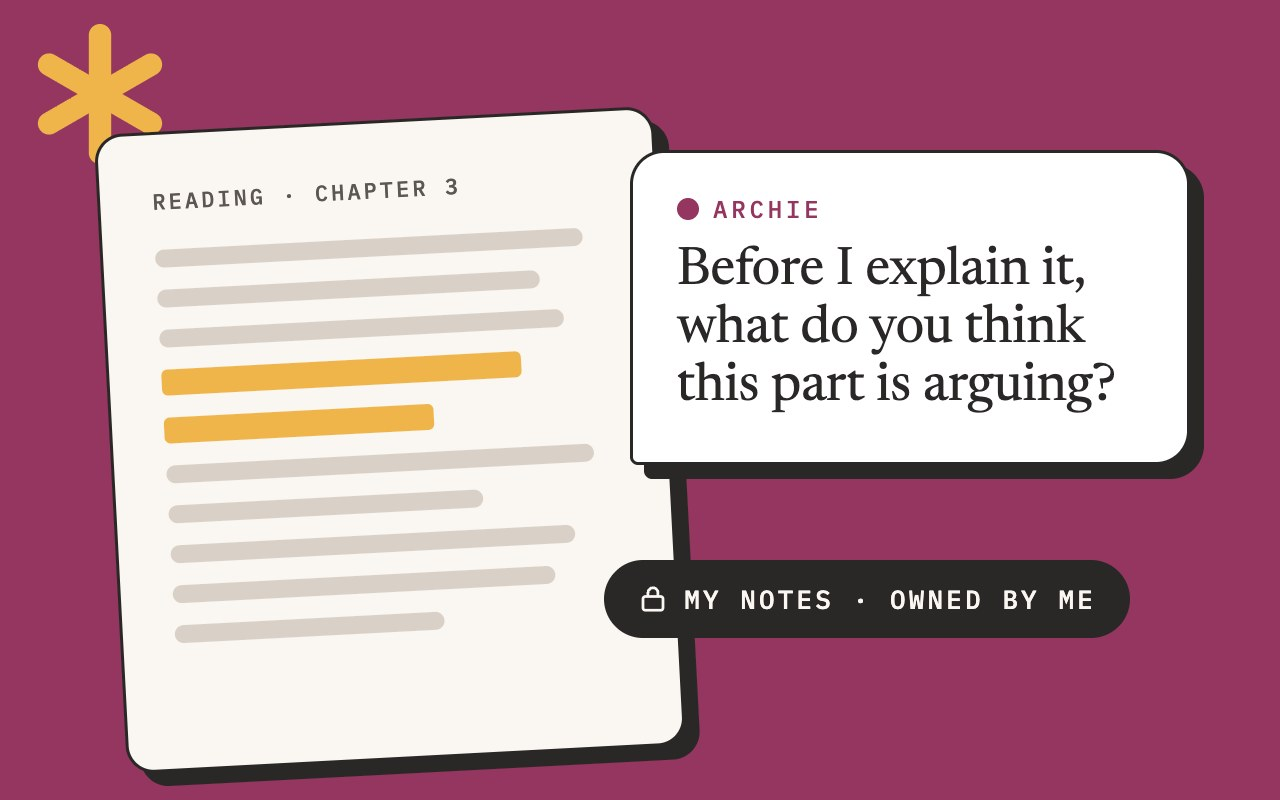
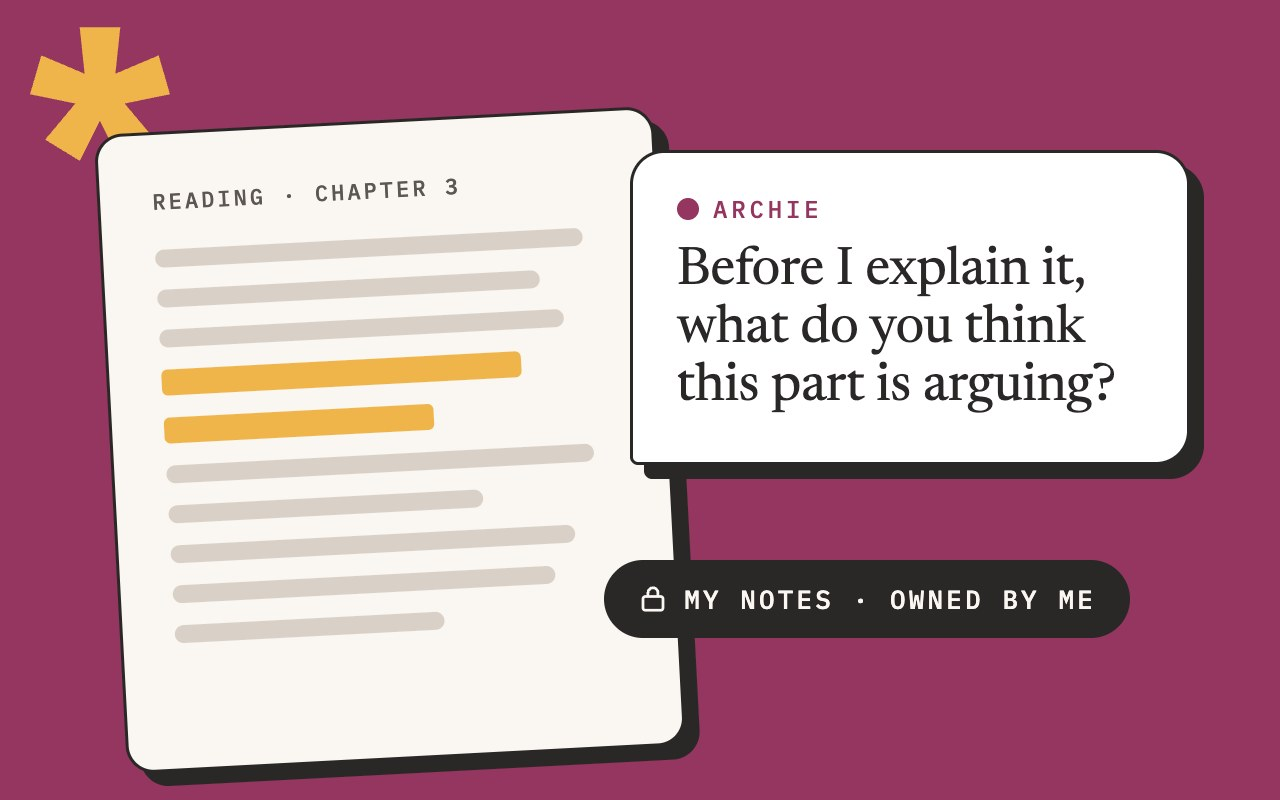
Use the League Gothic asterisk everywhere
Replace the site-wide asterisk symbol with the outline of the same
glyph used in "Say hi*", re-render the Archie and share images with it,
and drop the extra asterisk in the Who I am band.

Changed region(s): [[0.0, 0.0312, 0.1562, 0.2188]]

diff --git a/index.html b/index.html
@@ -25,7 +25,7 @@
 </head>
 <body>
     <svg width="0" height="0" style="position:absolute" aria-hidden="true">
-        <symbol id="ast" viewBox="0 0 100 100"><g fill="currentColor"><rect x="42" y="0" width="16" height="100" rx="8"/><rect x="42" y="0" width="16" height="100" rx="8" transform="rotate(60 50 50)"/><rect x="42" y="0" width="16" height="100" rx="8" transform="rotate(120 50 50)"/></g></symbol>
+        <symbol id="ast" viewBox="0 0 100 100"><path fill="currentColor" d="M35.5 97.7 10.8 82.6 32.4 56.8 0 50.2 8.1 22.4 39 35.5 35.5 2.3 64.5 2.3 61 35.5 91.9 22.4 100 50.2 67.6 56.8 89.2 82.6 64.5 97.7 49.8 69.1Z"/></symbol>
         <symbol id="arrow-l" viewBox="0 0 64 20"><path d="M63 10H2M11 1 2 10l9 9" fill="none" stroke="currentColor" stroke-width="2"/></symbol>
         <symbol id="arrow-r" viewBox="0 0 64 20"><path d="M1 10h61M53 1l9 9-9 9" fill="none" stroke="currentColor" stroke-width="2"/></symbol>
     </svg>
@@ -201,7 +201,6 @@
                     <span class="mono" id="traitCount">01 / 05</span>
                 </div>
             </div>
-            <span class="asterisk asterisk--pop asterisk--b" aria-hidden="true"><svg><use href="#ast"/></svg></span>
         </section>
 
         <section class="section" aria-labelledby="offTitle">

diff --git a/armoni.html b/armoni.html
@@ -15,7 +15,7 @@
 </head>
 <body>
     <svg width="0" height="0" style="position:absolute" aria-hidden="true">
-        <symbol id="ast" viewBox="0 0 100 100"><g fill="currentColor"><rect x="42" y="0" width="16" height="100" rx="8"/><rect x="42" y="0" width="16" height="100" rx="8" transform="rotate(60 50 50)"/><rect x="42" y="0" width="16" height="100" rx="8" transform="rotate(120 50 50)"/></g></symbol>
+        <symbol id="ast" viewBox="0 0 100 100"><path fill="currentColor" d="M35.5 97.7 10.8 82.6 32.4 56.8 0 50.2 8.1 22.4 39 35.5 35.5 2.3 64.5 2.3 61 35.5 91.9 22.4 100 50.2 67.6 56.8 89.2 82.6 64.5 97.7 49.8 69.1Z"/></symbol>
     </svg>
     <a class="skip mono" href="#main">Skip to content</a>
     <nav class="nav mono" aria-label="Main">

diff --git a/catastrophe.html b/catastrophe.html
@@ -15,7 +15,7 @@
 </head>
 <body>
     <svg width="0" height="0" style="position:absolute" aria-hidden="true">
-        <symbol id="ast" viewBox="0 0 100 100"><g fill="currentColor"><rect x="42" y="0" width="16" height="100" rx="8"/><rect x="42" y="0" width="16" height="100" rx="8" transform="rotate(60 50 50)"/><rect x="42" y="0" width="16" height="100" rx="8" transform="rotate(120 50 50)"/></g></symbol>
+        <symbol id="ast" viewBox="0 0 100 100"><path fill="currentColor" d="M35.5 97.7 10.8 82.6 32.4 56.8 0 50.2 8.1 22.4 39 35.5 35.5 2.3 64.5 2.3 61 35.5 91.9 22.4 100 50.2 67.6 56.8 89.2 82.6 64.5 97.7 49.8 69.1Z"/></symbol>
     </svg>
     <a class="skip mono" href="#main">Skip to content</a>
     <nav class="nav mono" aria-label="Main">

diff --git a/crexrtive.html b/crexrtive.html
@@ -15,7 +15,7 @@
 </head>
 <body>
     <svg width="0" height="0" style="position:absolute" aria-hidden="true">
-        <symbol id="ast" viewBox="0 0 100 100"><g fill="currentColor"><rect x="42" y="0" width="16" height="100" rx="8"/><rect x="42" y="0" width="16" height="100" rx="8" transform="rotate(60 50 50)"/><rect x="42" y="0" width="16" height="100" rx="8" transform="rotate(120 50 50)"/></g></symbol>
+        <symbol id="ast" viewBox="0 0 100 100"><path fill="currentColor" d="M35.5 97.7 10.8 82.6 32.4 56.8 0 50.2 8.1 22.4 39 35.5 35.5 2.3 64.5 2.3 61 35.5 91.9 22.4 100 50.2 67.6 56.8 89.2 82.6 64.5 97.7 49.8 69.1Z"/></symbol>
     </svg>
     <a class="skip mono" href="#main">Skip to content</a>
     <nav class="nav mono" aria-label="Main">

diff --git a/crisis-type.html b/crisis-type.html
@@ -15,7 +15,7 @@
 </head>
 <body>
     <svg width="0" height="0" style="position:absolute" aria-hidden="true">
-        <symbol id="ast" viewBox="0 0 100 100"><g fill="currentColor"><rect x="42" y="0" width="16" height="100" rx="8"/><rect x="42" y="0" width="16" height="100" rx="8" transform="rotate(60 50 50)"/><rect x="42" y="0" width="16" height="100" rx="8" transform="rotate(120 50 50)"/></g></symbol>
+        <symbol id="ast" viewBox="0 0 100 100"><path fill="currentColor" d="M35.5 97.7 10.8 82.6 32.4 56.8 0 50.2 8.1 22.4 39 35.5 35.5 2.3 64.5 2.3 61 35.5 91.9 22.4 100 50.2 67.6 56.8 89.2 82.6 64.5 97.7 49.8 69.1Z"/></symbol>
     </svg>
     <a class="skip mono" href="#main">Skip to content</a>
     <nav class="nav mono" aria-label="Main">

diff --git a/digital-sun.html b/digital-sun.html
@@ -15,7 +15,7 @@
 </head>
 <body>
     <svg width="0" height="0" style="position:absolute" aria-hidden="true">
-        <symbol id="ast" viewBox="0 0 100 100"><g fill="currentColor"><rect x="42" y="0" width="16" height="100" rx="8"/><rect x="42" y="0" width="16" height="100" rx="8" transform="rotate(60 50 50)"/><rect x="42" y="0" width="16" height="100" rx="8" transform="rotate(120 50 50)"/></g></symbol>
+        <symbol id="ast" viewBox="0 0 100 100"><path fill="currentColor" d="M35.5 97.7 10.8 82.6 32.4 56.8 0 50.2 8.1 22.4 39 35.5 35.5 2.3 64.5 2.3 61 35.5 91.9 22.4 100 50.2 67.6 56.8 89.2 82.6 64.5 97.7 49.8 69.1Z"/></symbol>
     </svg>
     <a class="skip mono" href="#main">Skip to content</a>
     <nav class="nav mono" aria-label="Main">

diff --git a/friend.html b/friend.html
@@ -15,7 +15,7 @@
 </head>
 <body>
     <svg width="0" height="0" style="position:absolute" aria-hidden="true">
-        <symbol id="ast" viewBox="0 0 100 100"><g fill="currentColor"><rect x="42" y="0" width="16" height="100" rx="8"/><rect x="42" y="0" width="16" height="100" rx="8" transform="rotate(60 50 50)"/><rect x="42" y="0" width="16" height="100" rx="8" transform="rotate(120 50 50)"/></g></symbol>
+        <symbol id="ast" viewBox="0 0 100 100"><path fill="currentColor" d="M35.5 97.7 10.8 82.6 32.4 56.8 0 50.2 8.1 22.4 39 35.5 35.5 2.3 64.5 2.3 61 35.5 91.9 22.4 100 50.2 67.6 56.8 89.2 82.6 64.5 97.7 49.8 69.1Z"/></symbol>
     </svg>
     <a class="skip mono" href="#main">Skip to content</a>
     <nav class="nav mono" aria-label="Main">

diff --git a/hepsisurada.html b/hepsisurada.html
@@ -15,7 +15,7 @@
 </head>
 <body>
     <svg width="0" height="0" style="position:absolute" aria-hidden="true">
-        <symbol id="ast" viewBox="0 0 100 100"><g fill="currentColor"><rect x="42" y="0" width="16" height="100" rx="8"/><rect x="42" y="0" width="16" height="100" rx="8" transform="rotate(60 50 50)"/><rect x="42" y="0" width="16" height="100" rx="8" transform="rotate(120 50 50)"/></g></symbol>
+        <symbol id="ast" viewBox="0 0 100 100"><path fill="currentColor" d="M35.5 97.7 10.8 82.6 32.4 56.8 0 50.2 8.1 22.4 39 35.5 35.5 2.3 64.5 2.3 61 35.5 91.9 22.4 100 50.2 67.6 56.8 89.2 82.6 64.5 97.7 49.8 69.1Z"/></symbol>
     </svg>
     <a class="skip mono" href="#main">Skip to content</a>
     <nav class="nav mono" aria-label="Main">

diff --git a/monogram.html b/monogram.html
@@ -15,7 +15,7 @@
 </head>
 <body>
     <svg width="0" height="0" style="position:absolute" aria-hidden="true">
-        <symbol id="ast" viewBox="0 0 100 100"><g fill="currentColor"><rect x="42" y="0" width="16" height="100" rx="8"/><rect x="42" y="0" width="16" height="100" rx="8" transform="rotate(60 50 50)"/><rect x="42" y="0" width="16" height="100" rx="8" transform="rotate(120 50 50)"/></g></symbol>
+        <symbol id="ast" viewBox="0 0 100 100"><path fill="currentColor" d="M35.5 97.7 10.8 82.6 32.4 56.8 0 50.2 8.1 22.4 39 35.5 35.5 2.3 64.5 2.3 61 35.5 91.9 22.4 100 50.2 67.6 56.8 89.2 82.6 64.5 97.7 49.8 69.1Z"/></symbol>
     </svg>
     <a class="skip mono" href="#main">Skip to content</a>
     <nav class="nav mono" aria-label="Main">

diff --git a/research.html b/research.html
@@ -15,7 +15,7 @@
 </head>
 <body>
     <svg width="0" height="0" style="position:absolute" aria-hidden="true">
-        <symbol id="ast" viewBox="0 0 100 100"><g fill="currentColor"><rect x="42" y="0" width="16" height="100" rx="8"/><rect x="42" y="0" width="16" height="100" rx="8" transform="rotate(60 50 50)"/><rect x="42" y="0" width="16" height="100" rx="8" transform="rotate(120 50 50)"/></g></symbol>
+        <symbol id="ast" viewBox="0 0 100 100"><path fill="currentColor" d="M35.5 97.7 10.8 82.6 32.4 56.8 0 50.2 8.1 22.4 39 35.5 35.5 2.3 64.5 2.3 61 35.5 91.9 22.4 100 50.2 67.6 56.8 89.2 82.6 64.5 97.7 49.8 69.1Z"/></symbol>
     </svg>
     <a class="skip mono" href="#main">Skip to content</a>
     <nav class="nav mono" aria-label="Main">

diff --git a/rts.html b/rts.html
@@ -15,7 +15,7 @@
 </head>
 <body>
     <svg width="0" height="0" style="position:absolute" aria-hidden="true">
-        <symbol id="ast" viewBox="0 0 100 100"><g fill="currentColor"><rect x="42" y="0" width="16" height="100" rx="8"/><rect x="42" y="0" width="16" height="100" rx="8" transform="rotate(60 50 50)"/><rect x="42" y="0" width="16" height="100" rx="8" transform="rotate(120 50 50)"/></g></symbol>
+        <symbol id="ast" viewBox="0 0 100 100"><path fill="currentColor" d="M35.5 97.7 10.8 82.6 32.4 56.8 0 50.2 8.1 22.4 39 35.5 35.5 2.3 64.5 2.3 61 35.5 91.9 22.4 100 50.2 67.6 56.8 89.2 82.6 64.5 97.7 49.8 69.1Z"/></symbol>
     </svg>
     <a class="skip mono" href="#main">Skip to content</a>
     <nav class="nav mono" aria-label="Main">

diff --git a/signature.html b/signature.html
@@ -15,7 +15,7 @@
 </head>
 <body>
     <svg width="0" height="0" style="position:absolute" aria-hidden="true">
-        <symbol id="ast" viewBox="0 0 100 100"><g fill="currentColor"><rect x="42" y="0" width="16" height="100" rx="8"/><rect x="42" y="0" width="16" height="100" rx="8" transform="rotate(60 50 50)"/><rect x="42" y="0" width="16" height="100" rx="8" transform="rotate(120 50 50)"/></g></symbol>
+        <symbol id="ast" viewBox="0 0 100 100"><path fill="currentColor" d="M35.5 97.7 10.8 82.6 32.4 56.8 0 50.2 8.1 22.4 39 35.5 35.5 2.3 64.5 2.3 61 35.5 91.9 22.4 100 50.2 67.6 56.8 89.2 82.6 64.5 97.7 49.8 69.1Z"/></symbol>
     </svg>
     <a class="skip mono" href="#main">Skip to content</a>
     <nav class="nav mono" aria-label="Main">
